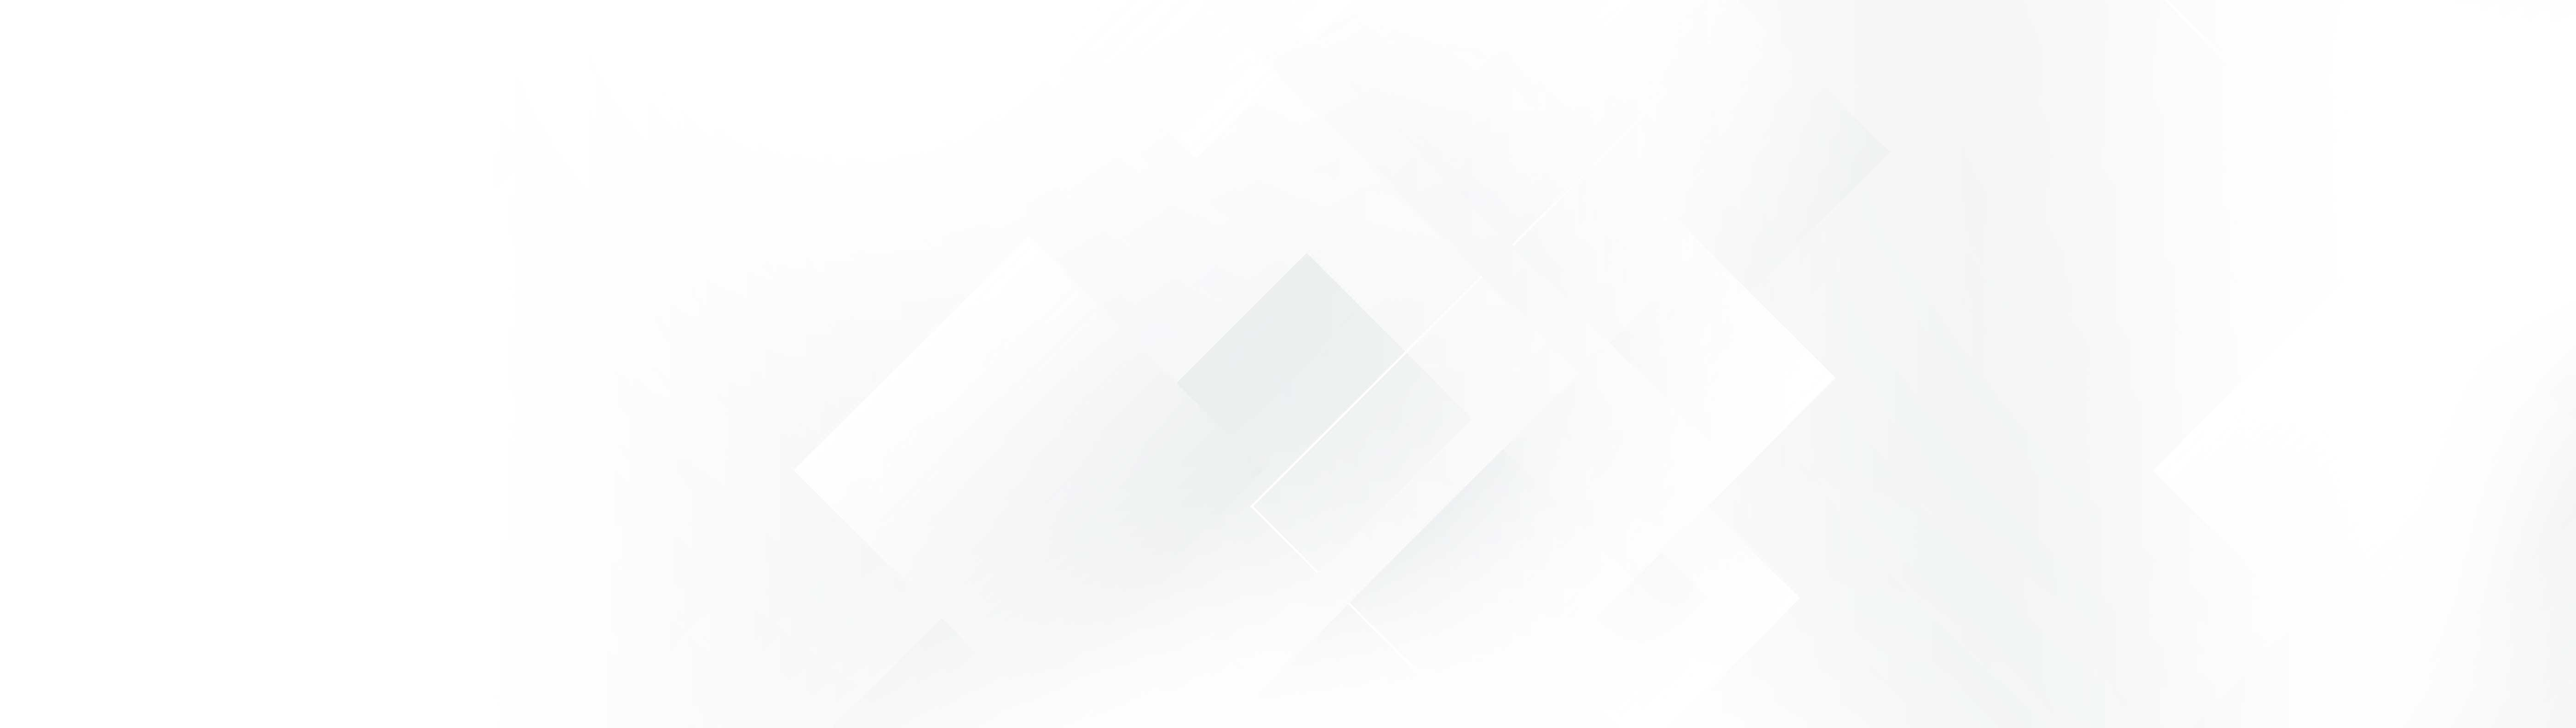
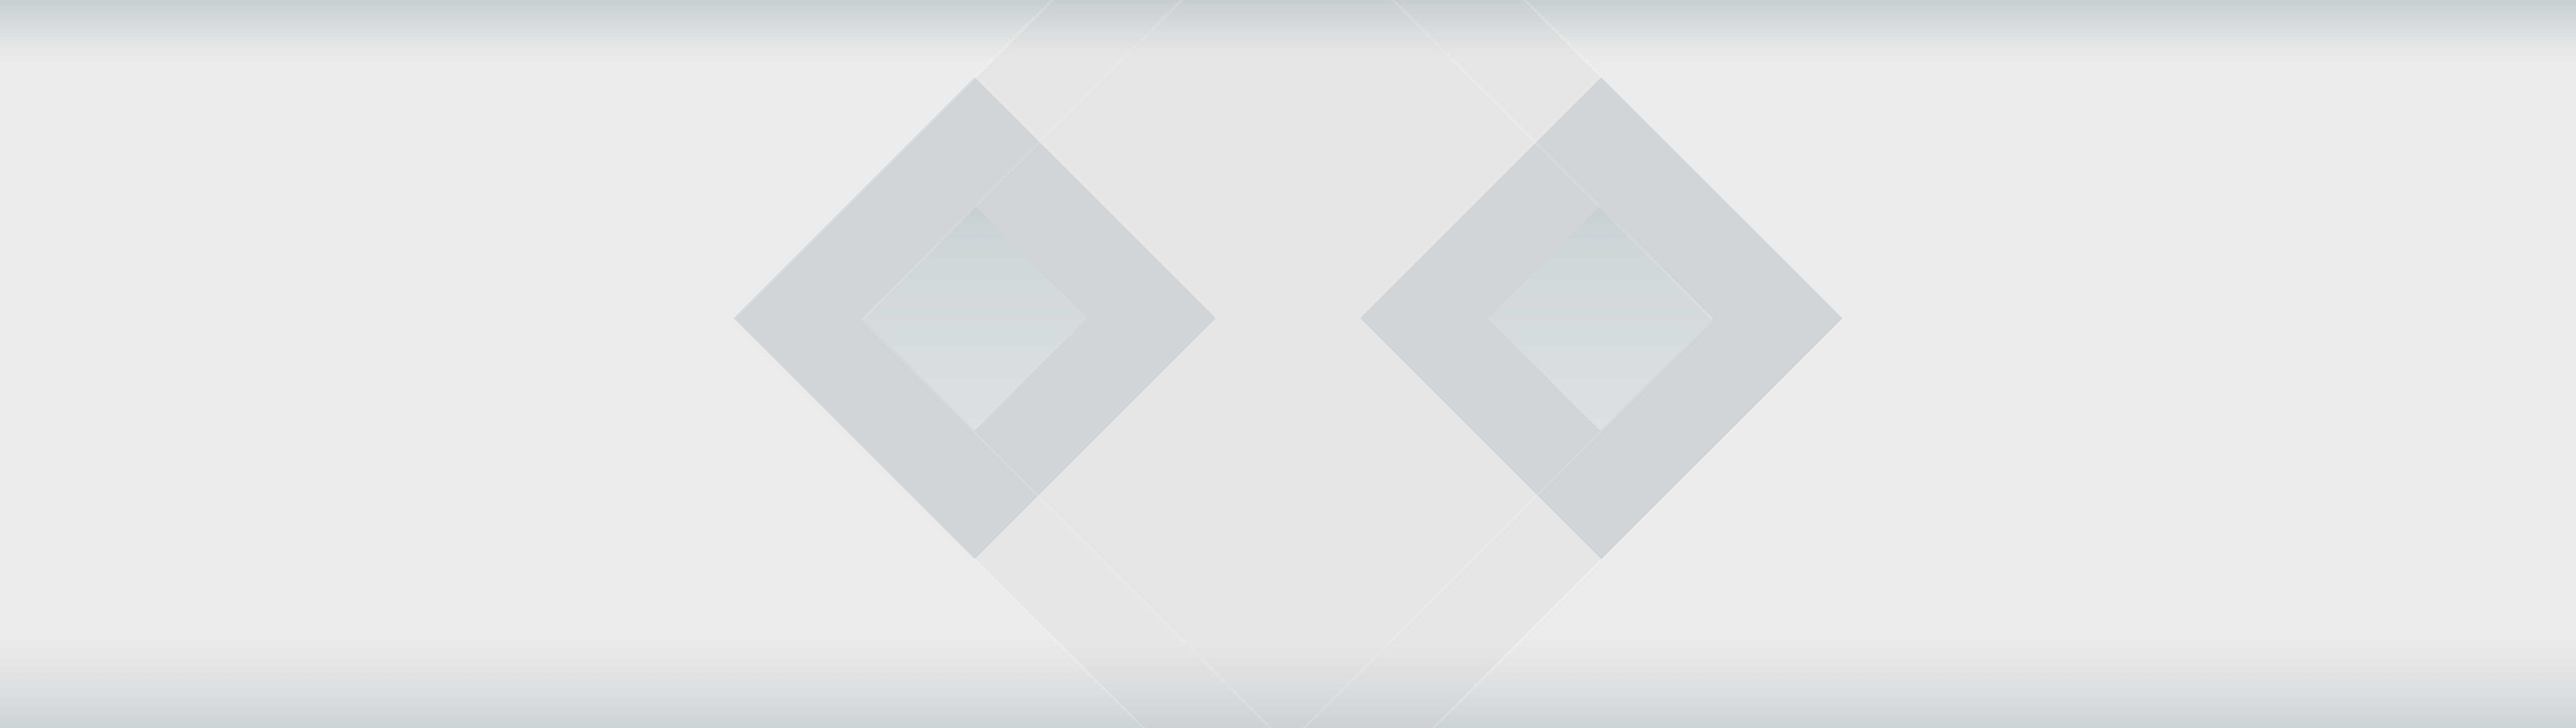
Add files via upload

Changed region(s): [[0.0, 0.0, 1.0, 0.7734], [0.0, 0.8971, 1.0, 1.0], [0.5312, 0.1237, 0.7188, 0.7734]]

diff --git a/css/style.css b/css/style.css
@@ -13,6 +13,15 @@ p {
     font-size: 18px;
 }
 
+.video_editor {
+    letter-spacing: 4px;
+    margin-left: 3px;
+}
+
+.graphic_designer {
+    letter-spacing: 0.4px; 
+}
+
 @font-face {
     font-family: 'Photograph Signature'; /*a name to be used later*/
     src: url(/PhotographSignature.ttf); /*URL to font*/
@@ -80,19 +89,24 @@ a:link {
   }
 
   .bgimage-btm {
+    position: relative;
+    overflow: hidden;
+    height: 700px; /* Only show 700px of the image */
+  }
+  
+  .bgimage-btm::before {
+    content: "";
+    position: absolute;
+    top: -100px; /* Move image up 100px to hide the top */
+    left: 0;
+    width: 100%;
+    height: 800px; /* Natural height of the image section */
     background-image: url('/images/background_portfolio_bottom.jpg');
     background-repeat: no-repeat;
-    background-position: center center;
-    background-size: cover; /* Let it scale naturally */
-    background-attachment: scroll;
-    width: 100%;
-    overflow: hidden;
-    display: flex;
-    align-items: center;
-    justify-content: center;
-    text-align: center;
-    position: relative;
-    height: 800px;
+    background-position: center top;
+    background-size: cover;
+    transform: scaleY(-1);
+    z-index: -1;
   }
 
   .content-wrapper {
@@ -398,12 +412,14 @@ section {
     padding-top: 0px !important;
     padding-bottom: 0px !important;
     transition: all 0.3s ease;
+    border-radius: 0 !important;
 }
 
 .card-title {
     text-align: center;
     /* font-family: 'Maiden Orange', serif !important; */
     font-size: 18px !important;
+    font-weight: 500;
 }
 
 .card-title-large {
@@ -414,7 +430,19 @@ section {
     margin-left: 80px;
     white-space: normal;
     word-wrap: break-word;
+}
 
+.contact-title {
+    font-size: 28px !important;
+    text-align: center;
+    font-weight: 300;
+    line-height: 1.5 !important; 
+}
+
+.contact-text {
+    font-size: 40px !important;
+    font-weight: 300;
+    line-height: 1.5 !important; 
 }
 
 .card-text {
@@ -729,12 +757,28 @@ section {
     background-position: center center;
     background-size: 100% 100%;
     transition: transform 0.5s ease;
+    transform: scale(1.5);
     z-index: -1;
 }
 
 .dropdown-button:hover::before {
-    transform: scale(2);
+    transform: scale(3);
 }
+
+ /* Text grow effect */
+ .custom-dropdown .button-text {
+    display: inline-block;
+    transition: transform 0.3s ease;
+    color: white; /* Optional text color */
+    z-index: 1; /* Keep it above the background */
+    transform: scale(1) !important;
+  }
+  
+  /* On hover, text grows */
+  .dropdown-button:hover .button-text {
+    transform: scale(1.05) !important;
+  }
+
   
 .dropdown-list {
     list-style: none;
@@ -766,12 +810,16 @@ section {
     cursor: pointer !important;
     text-align: center;
     font-weight: 300;
+    transition: transform 0.5s ease;
   }
 
-.custom-dropdown:hover .dropdown-button {
-    background-position: left center; /* Keep the transition effect */
-    color: #fff;
-    text-decoration: none;
+  .dropdown-button .button-text {
+    display: inline-block;
+    transition: transform 0.3s ease;
+  }
+  
+  .custom-dropdown:hover .button-text {
+    transform: scale(1.05);
   }
   
 .custom-dropdown:hover .dropdown-list {
@@ -783,6 +831,7 @@ section {
     color: white;
     background-position: center center;
     background-size: 100% 100%;
+    transform: scale(1.05);
   }
 /*Drowdown Menu End */
     
@@ -932,27 +981,39 @@ section {
   }
 
   .icon-link i {
-    color: rgb(171, 171, 171); /* Match your LinkedIn icon */
+    color: #3A6073; /* Match your LinkedIn icon */
     transition: color 0.3s ease;
-  }
+        opacity: 0.6; /* Adjust to your preferred transparency */
+      }
+
+    .icon-link .fa-file-lines {
+    transform: scaleY(0.85);
+}
   
   .icon-link i:hover {
-    color: #3A6073; /* Optional: hover color */
+
+    opacity: 1;
   }
 
 
   /* Contact Form */
 
-  #contact {
+  /* #contact {
     max-width: 600px;
     margin: 0 auto;
     padding: 2rem;
-  }
+  } */
 
   form {
     display: flex;
     flex-direction: column;
     gap: 1rem;
+  }
+
+  #message {
+    resize: none;
+    height: 170px;
+      
   }
 
   input, textarea {
@@ -999,13 +1060,13 @@ section {
     background-image: linear-gradient(to right, #16222A 0%, #3A6073 51%, #16222A 100%);
     z-index: -1;
     transition: transform 0.5s ease;
-    transform: scale(1);
+    transform: scale(2);
     transform-origin: center;
   }
   
   /* On hover, background expands */
   .fancy-button:hover::before {
-    transform: scale(2);
+    transform: scale(3);
   }
   
   /* Text grow effect */
@@ -1072,16 +1133,33 @@ section {
   }
 
   .profile-pic {
-    width: 70px;
-    height: 70px;
+    width: 80px;
+    height: 80px;
     object-fit: cover;
-    transition: transform 0.3s ease;
+    /* transition: transform 0.3s ease; */
+    opacity: 0.8;
+    
     /* border-radius: 50%;
     border: 3px solid #3A6073;  */
   }
 
-  .profile-card:hover .profile-pic {
-    transform: scale(1.05); /* Adjust scale as needed */
+  /* .profile-card:hover .profile-pic {
+    transform: scale(1.05); 
+  } */
+
+  .profile-card {
+    width: 686px; /* Adjust to match the background element */
+    height: 530px; /* Adjust height as needed */
+    margin: 0 auto; /* Center it horizontally */
+    position: relative;
+    bottom: -14px;
+    z-index: 2; /* Stay above the background */
+  }
+
+  .contact-title {
+    /* font-size: 28px !important; */
+    margin-top: -18px;
+    line-height: 0.9
   }
 
 /* hamburger menu */
@@ -1314,12 +1392,12 @@ section {
   }
 
   .gradient-border {
-    background: linear-gradient(to right, rgb(58, 96, 115), rgb(0, 0, 0));
+    background: linear-gradient(to right, rgb(51, 83, 101), rgb(0, 0, 0));
     min-height: 100%; /* Make it fill the height of the section */
   }
 
   .gradient-border-2 {
-    background: linear-gradient(to left, rgb(58, 96, 115), rgb(0, 0, 0));
+    background: linear-gradient(to left, rgb(51, 83, 101), rgb(0, 0, 0));
     min-height: 100%; /* Make it fill the height of the section */
   }
 
@@ -1343,8 +1421,8 @@ section {
 }
 
 .thick-border {
-    border-top: 2px solid rgb(51, 83, 101) !important;
-    border-bottom: 3px solid rgb(51, 83, 101) !important; 
+    border-top: 2px solid rgb(51, 83, 101) 100%);
+    border-bottom: 3px solid rgb(51, 83, 101);
   }
 
   .thick-border-2 {
@@ -1355,6 +1433,8 @@ section {
   .dummydiv {
     min-height: 10px; 
   }
+
+
 
   /*Media Queries*/
   @media (max-width: 768px) {  /* Target mobile screens */

diff --git a/index.html b/index.html
@@ -106,8 +106,8 @@
         <!-- Floating title stack (video editor, etc) -->
         <div id="titleStack">
           <span class="title-word" id="word1">Michael Brady</span>
-          <span class="title-word" id="word2">video editor</span>
-          <span class="title-word" id="word3">graphic designer</span>
+          <span class="title-word video_editor" id="word2"> video editor</span>
+          <span class="title-word graphic_designer" id="word3">graphic designer</span>
           <span class="title-word" id="word4">cinematographer</span>
 
             <!-- Clickable Transparent Box -->
@@ -747,23 +747,27 @@
 
 <section class="bgimage-btm">
 
-<div class=" container-fluid mt-4 pt-4 section" id="contact">
-  <h1 class="text-center">Contact</h1>
+<div class=" container-fluid section" id="contact">
+  <h1 class="text-center d-flex pt-3 justify-content-center">Contact</h1>
+    
+   
   
-  <div class="card shadow-lg p-3 text-cente profile-card">
+  </div>
+  <div class="card shadow-lg p-3 text-center profile-card mx-auto">
 
     <!-- Profile Picture -->
-    <img src="/images/MB.png" alt="Profile Picture" class="profile-pic mx-auto mb-2">
+    <!-- <img src="/images/MB.png" alt="Profile Picture" class="profile-pic mx-auto mb-2"> -->
 
-    <h5 class="card-title">Michael Brady<br>
-    <a href="https://www.linkedin.com/in/michael-brady-4187b83b/" class="icon-link" target="_blank" rel="noopener noreferrer" data-bs-toggle="tooltip"
-    title="Visit my LinkedIn profile">
-      <i class="fab fa-linkedin fa-md"></i></a>
-      <a href="/images/resume.pdf" class="icon-link ms-2" target="_blank" rel="noopener noreferrer" data-bs-toggle="tooltip" title="View my résumé">
-        <i class="fas fa-file-lines fa-md"></i>
-      </a>
+    <h5 class="contact-title mt-2 mb-4">Michael Brady<br>
+      <a href="https://www.linkedin.com/in/michael-brady-4187b83b/" class="icon-link" target="_blank" rel="noopener noreferrer" data-bs-toggle="tooltip"
+      title="Visit my LinkedIn profile">
+        <i class="fab fa-linkedin fa-lg"></i></a>
+        <a href="/images/resume.pdf" class="icon-link ms-2" target="_blank" rel="noopener noreferrer" data-bs-toggle="tooltip" title="View my résumé">
+          <i class="fas fa-file-lines fa-lg"></i>
+        </a>
+   
     </h5>
-    <p class="card-text">video editor<br>graphic designer<br>cinematographer</p>
+
 
     <!-- Contact Form continues below -->
 
@@ -797,6 +801,7 @@
       </div>
     </div>
 </div>
+<div class="col-12 mt-4 dummydiv">
 </div>
 </section>
 

diff --git a/script/script.js b/script/script.js
@@ -276,7 +276,7 @@ typeText();
 
     // Automatically filter by "editing" when the page loads
     filterVideos("editing");
-    dropdownButton.textContent = "Video/Audio Editing";
+    dropdownButton.querySelector(".button-text").textContent = "Video/Audio Editing";
     categoryFilter.value = "editing";
 
     // Navbar transparency on scroll
@@ -452,7 +452,7 @@ dropdownButton.addEventListener("click", function (event) {
 dropdownList.querySelectorAll("li").forEach(item => {
     item.addEventListener("click", function () {
         const selectedValue = item.getAttribute("data-value");
-        dropdownButton.firstChild.nodeValue = item.textContent; // Update text while keeping triangle
+        dropdownButton.querySelector(".button-text").textContent = item.textContent;
         categoryFilter.value = selectedValue;
         dropdownList.classList.remove("open");
         rotateTriangle(false);
